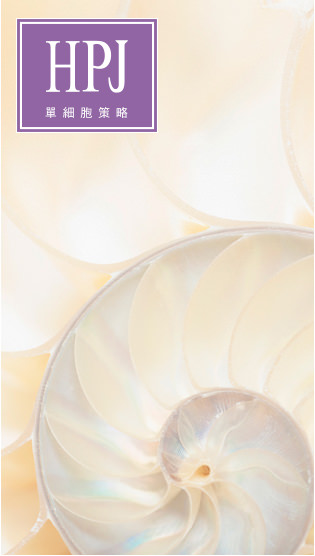
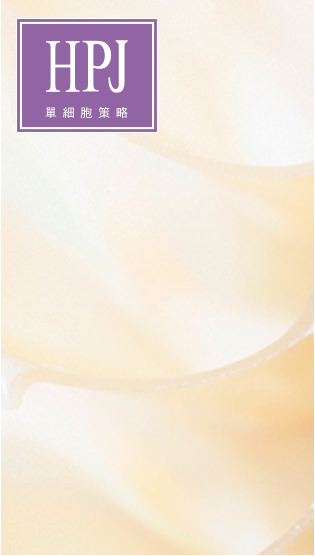
頁面修改 #20161101 1. 關於我們圖片角度變更，隱藏螺旋部分，因為客戶以為是蝸牛 2. 修改客製化產品中潑尿酸的價格

diff --git a/customized.html b/customized.html
@@ -167,7 +167,7 @@ j=d.createElement(s),dl=l!='dataLayer'?'&l='+l:'';j.async=true;j.src=
                         <tr>
                           <td>玻尿酸精華液</td>
                           <td>500ml</td>
-                          <td>$600</td>
+                          <td>$900</td>
                         </tr>
                         <tr>
                           <td>γ-PGA精華液</td>
